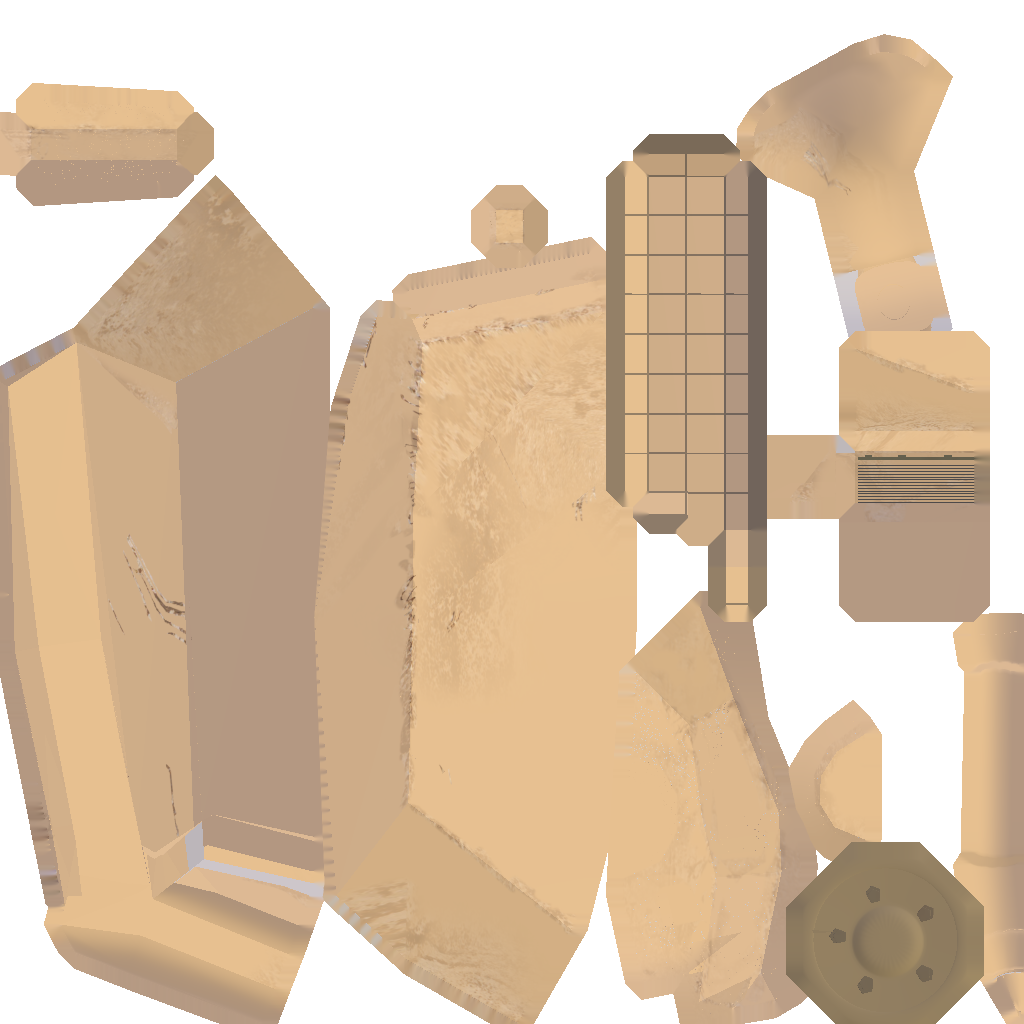
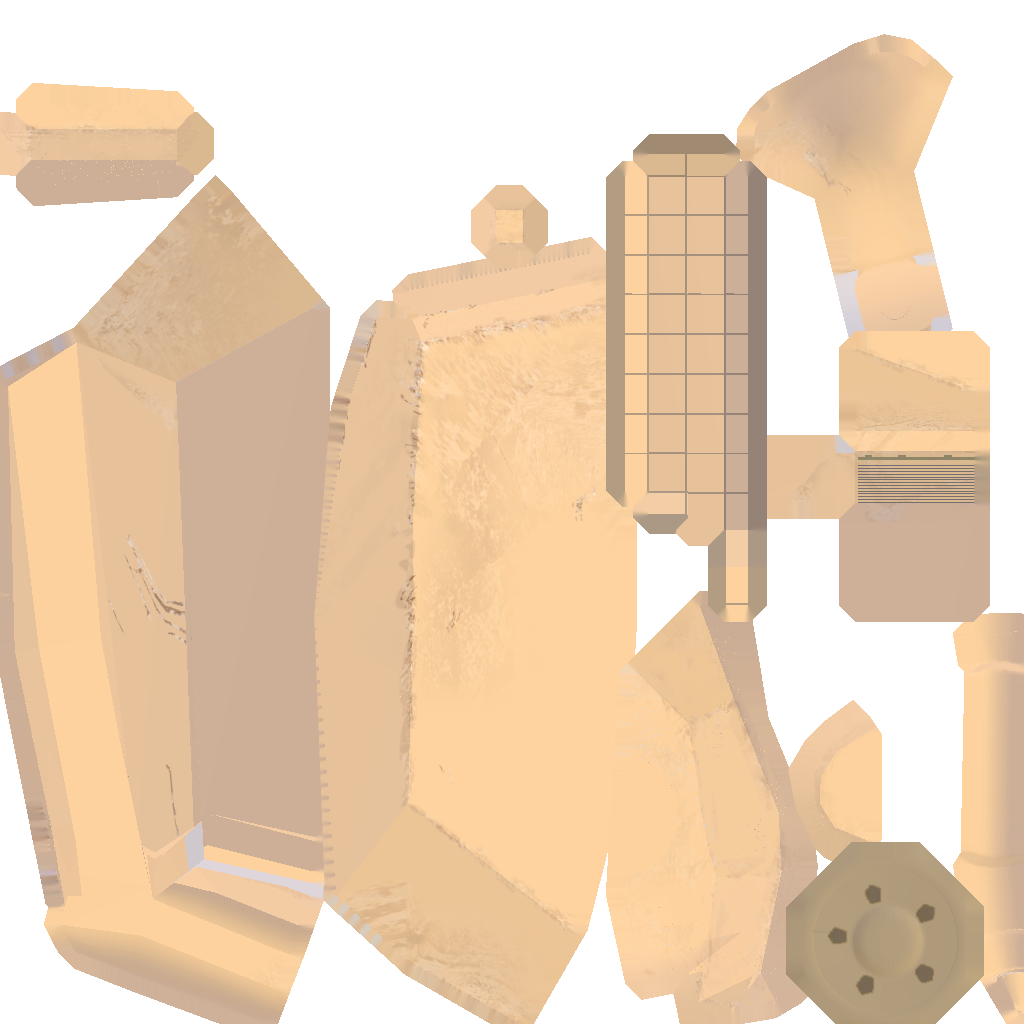
minor lighting and texture adjustment, notify at start of game and every time player switches

diff --git a/frontend/game.js b/frontend/game.js
@@ -138,7 +138,7 @@ export class Game {
     const turnNotification = document.querySelector(".turn-notification");
     turnNotification.innerHTML =
       this.players[this.currentPlayerIdx] instanceof LocalPlayer ?
-      "YOUR MOVE" : "ENEMY MOVE"; 
+      "YOUR MOVE" : "ENEMY MOVE";
     turnNotification.style["max-width"] = "300px";
     window.setTimeout(() => {
       turnNotification.style["max-width"] = "0";
@@ -359,11 +359,12 @@ export class Game {
   }
   // Start new Online game
   startGame() {
+    this.notifyTurn();
     this._startTurn();
   }
 
   _startTurn() {
-    this.notifyTurn();
+
     const otherPlayer = this.currentPlayerIdx === 0 ? 1 : 0;
     if (this.players[this.currentPlayerIdx].health <= 0) {
       return this._gameOver(this.players[this.currentPlayerIdx]);
@@ -447,6 +448,7 @@ export class Game {
       } else {
         this.currentPlayerIdx = 0;
       }
+      this.notifyTurn();
     }
   }
 

diff --git a/frontend/tactical_warfare.js b/frontend/tactical_warfare.js
@@ -29,16 +29,17 @@ const createScene = function() {
     new BABYLON.Vector3(0, 1, 0),
     scene
   );
+  light.diffuse = new BABYLON.Color3(1, 0.90, 0.86);
 
   const lightPointSky = new BABYLON.DirectionalLight(
     "Dir0",
-    new BABYLON.Vector3(0, 1, 0),
+    new BABYLON.Vector3(0.3, 0.8, 0.2),
     scene
   );
 
-  light.intensity = 0.9;
-  lightPointSky.intensity = 0.7;
-
+  light.intensity = 1;
+  lightPointSky.intensity = 0.5;
+  lightPointSky.diffuse = new BABYLON.Color3(0.95,0.97,1);
   window.addEventListener("resize", () => {
     engine.resize();
   });
